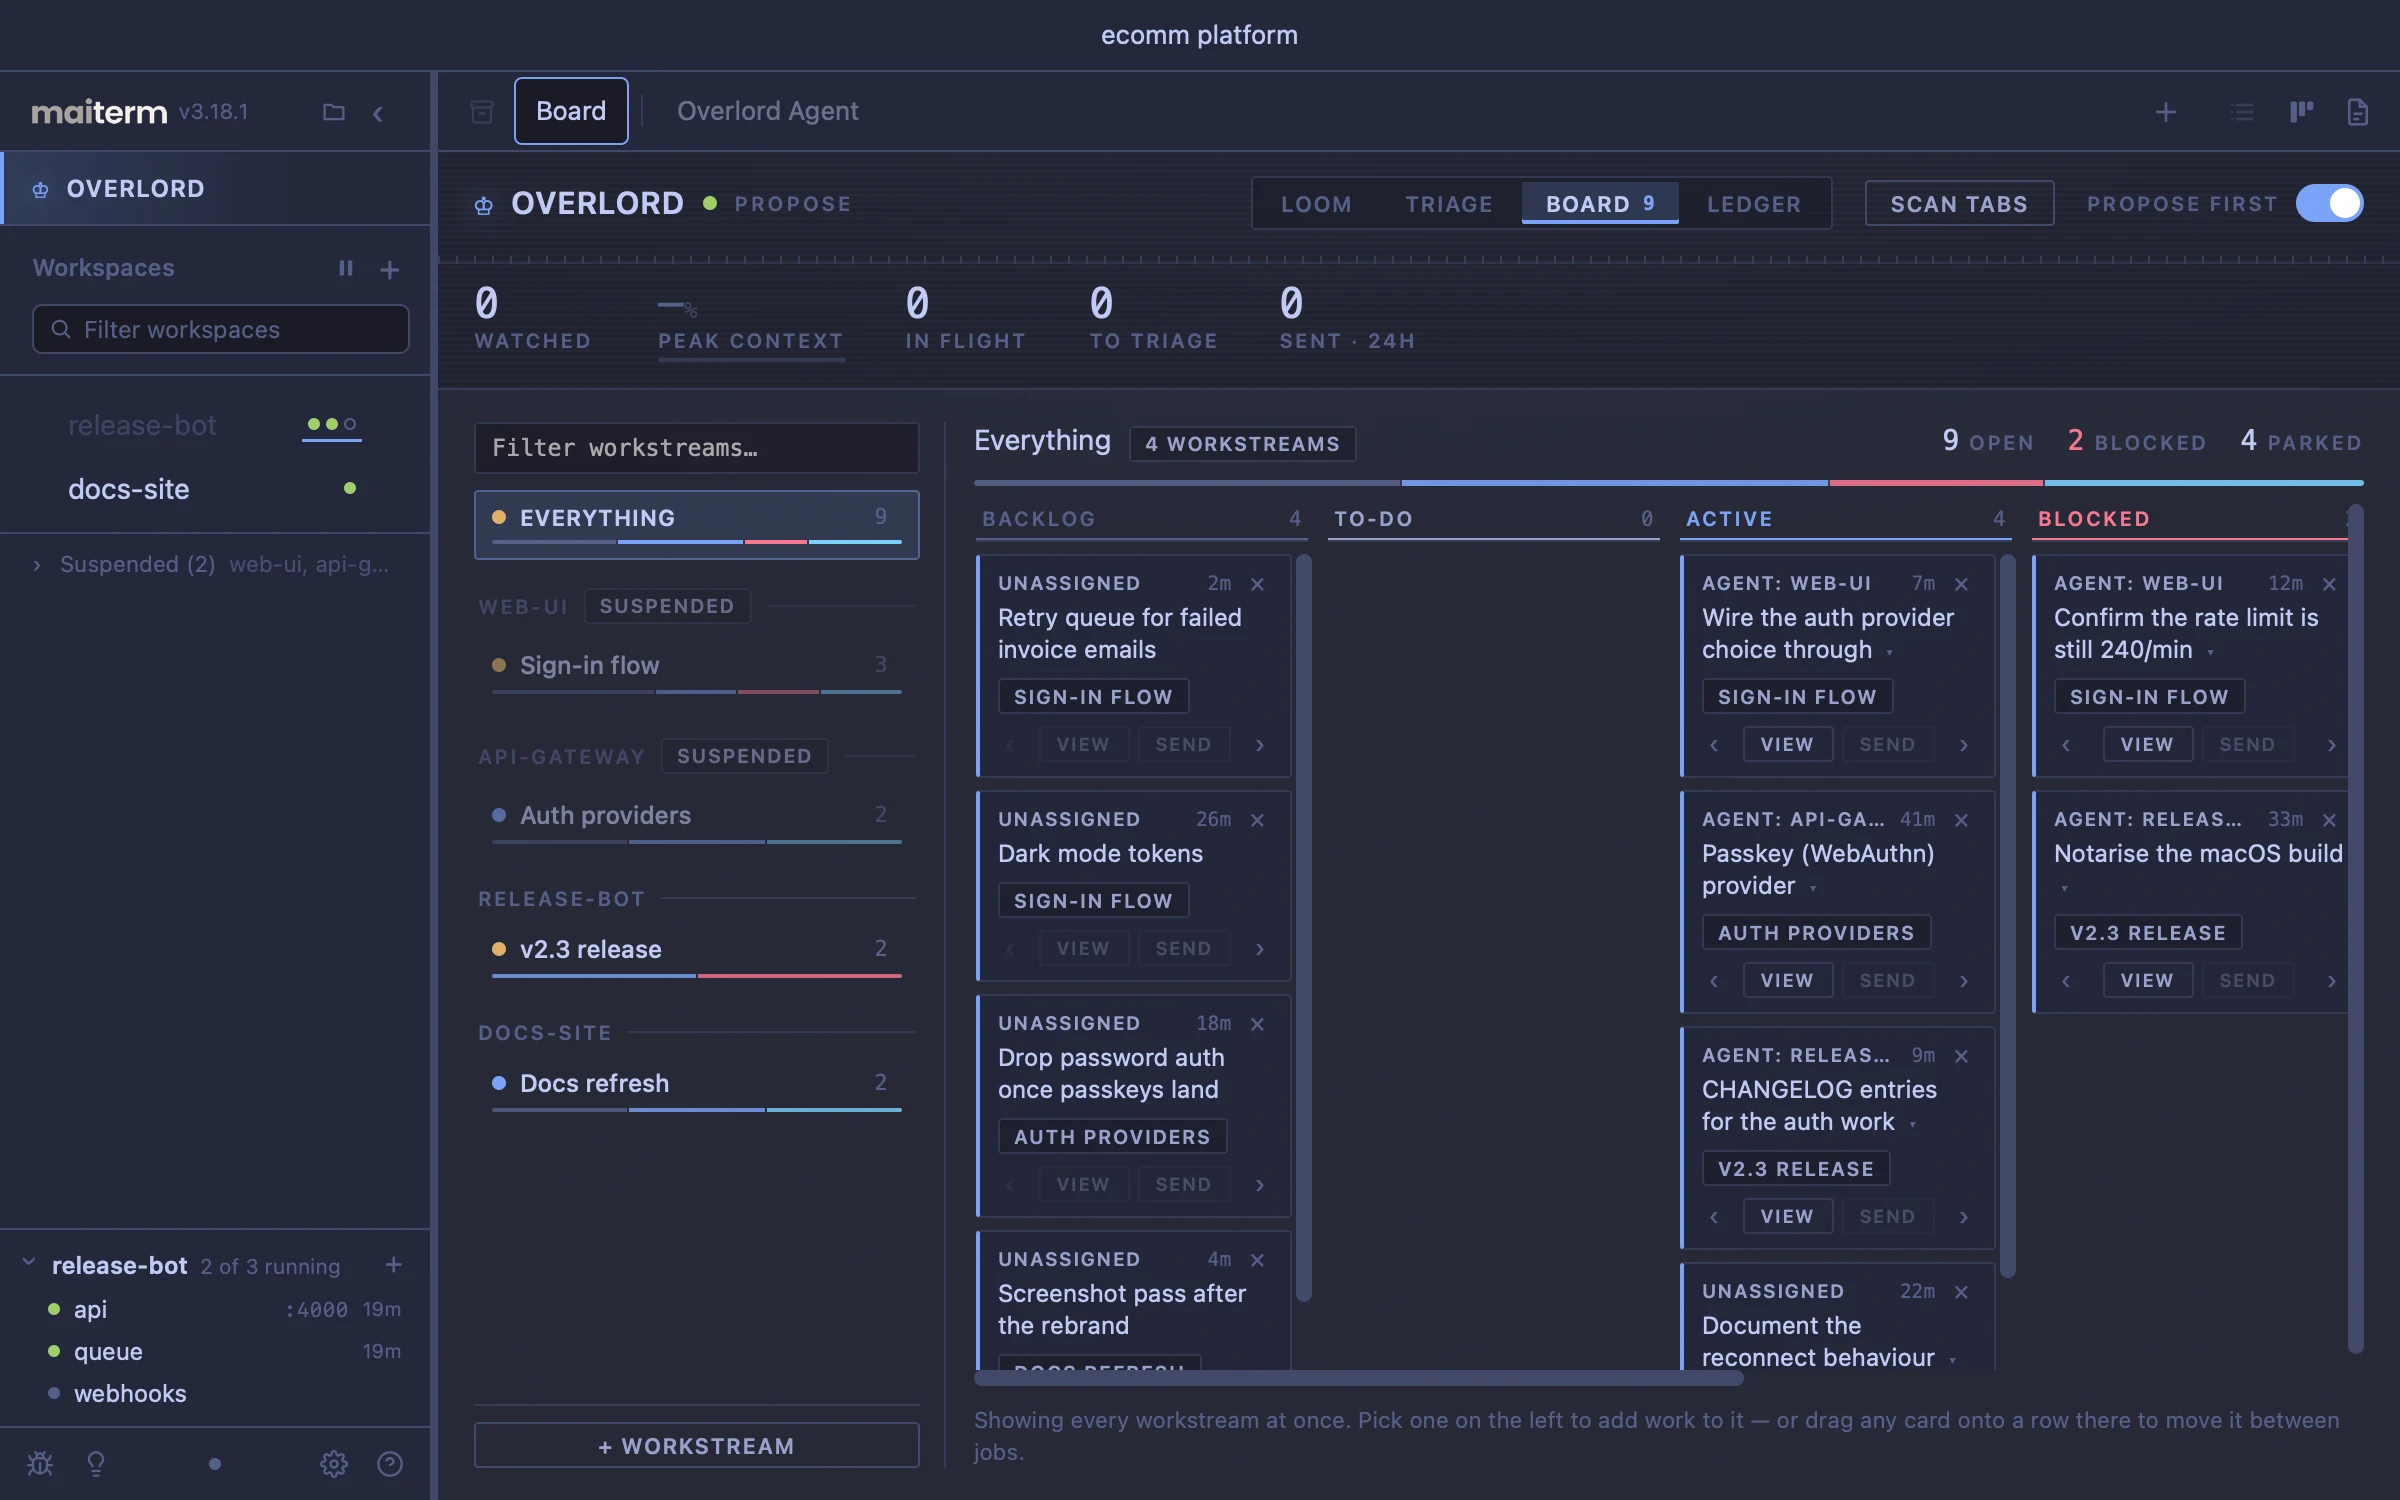
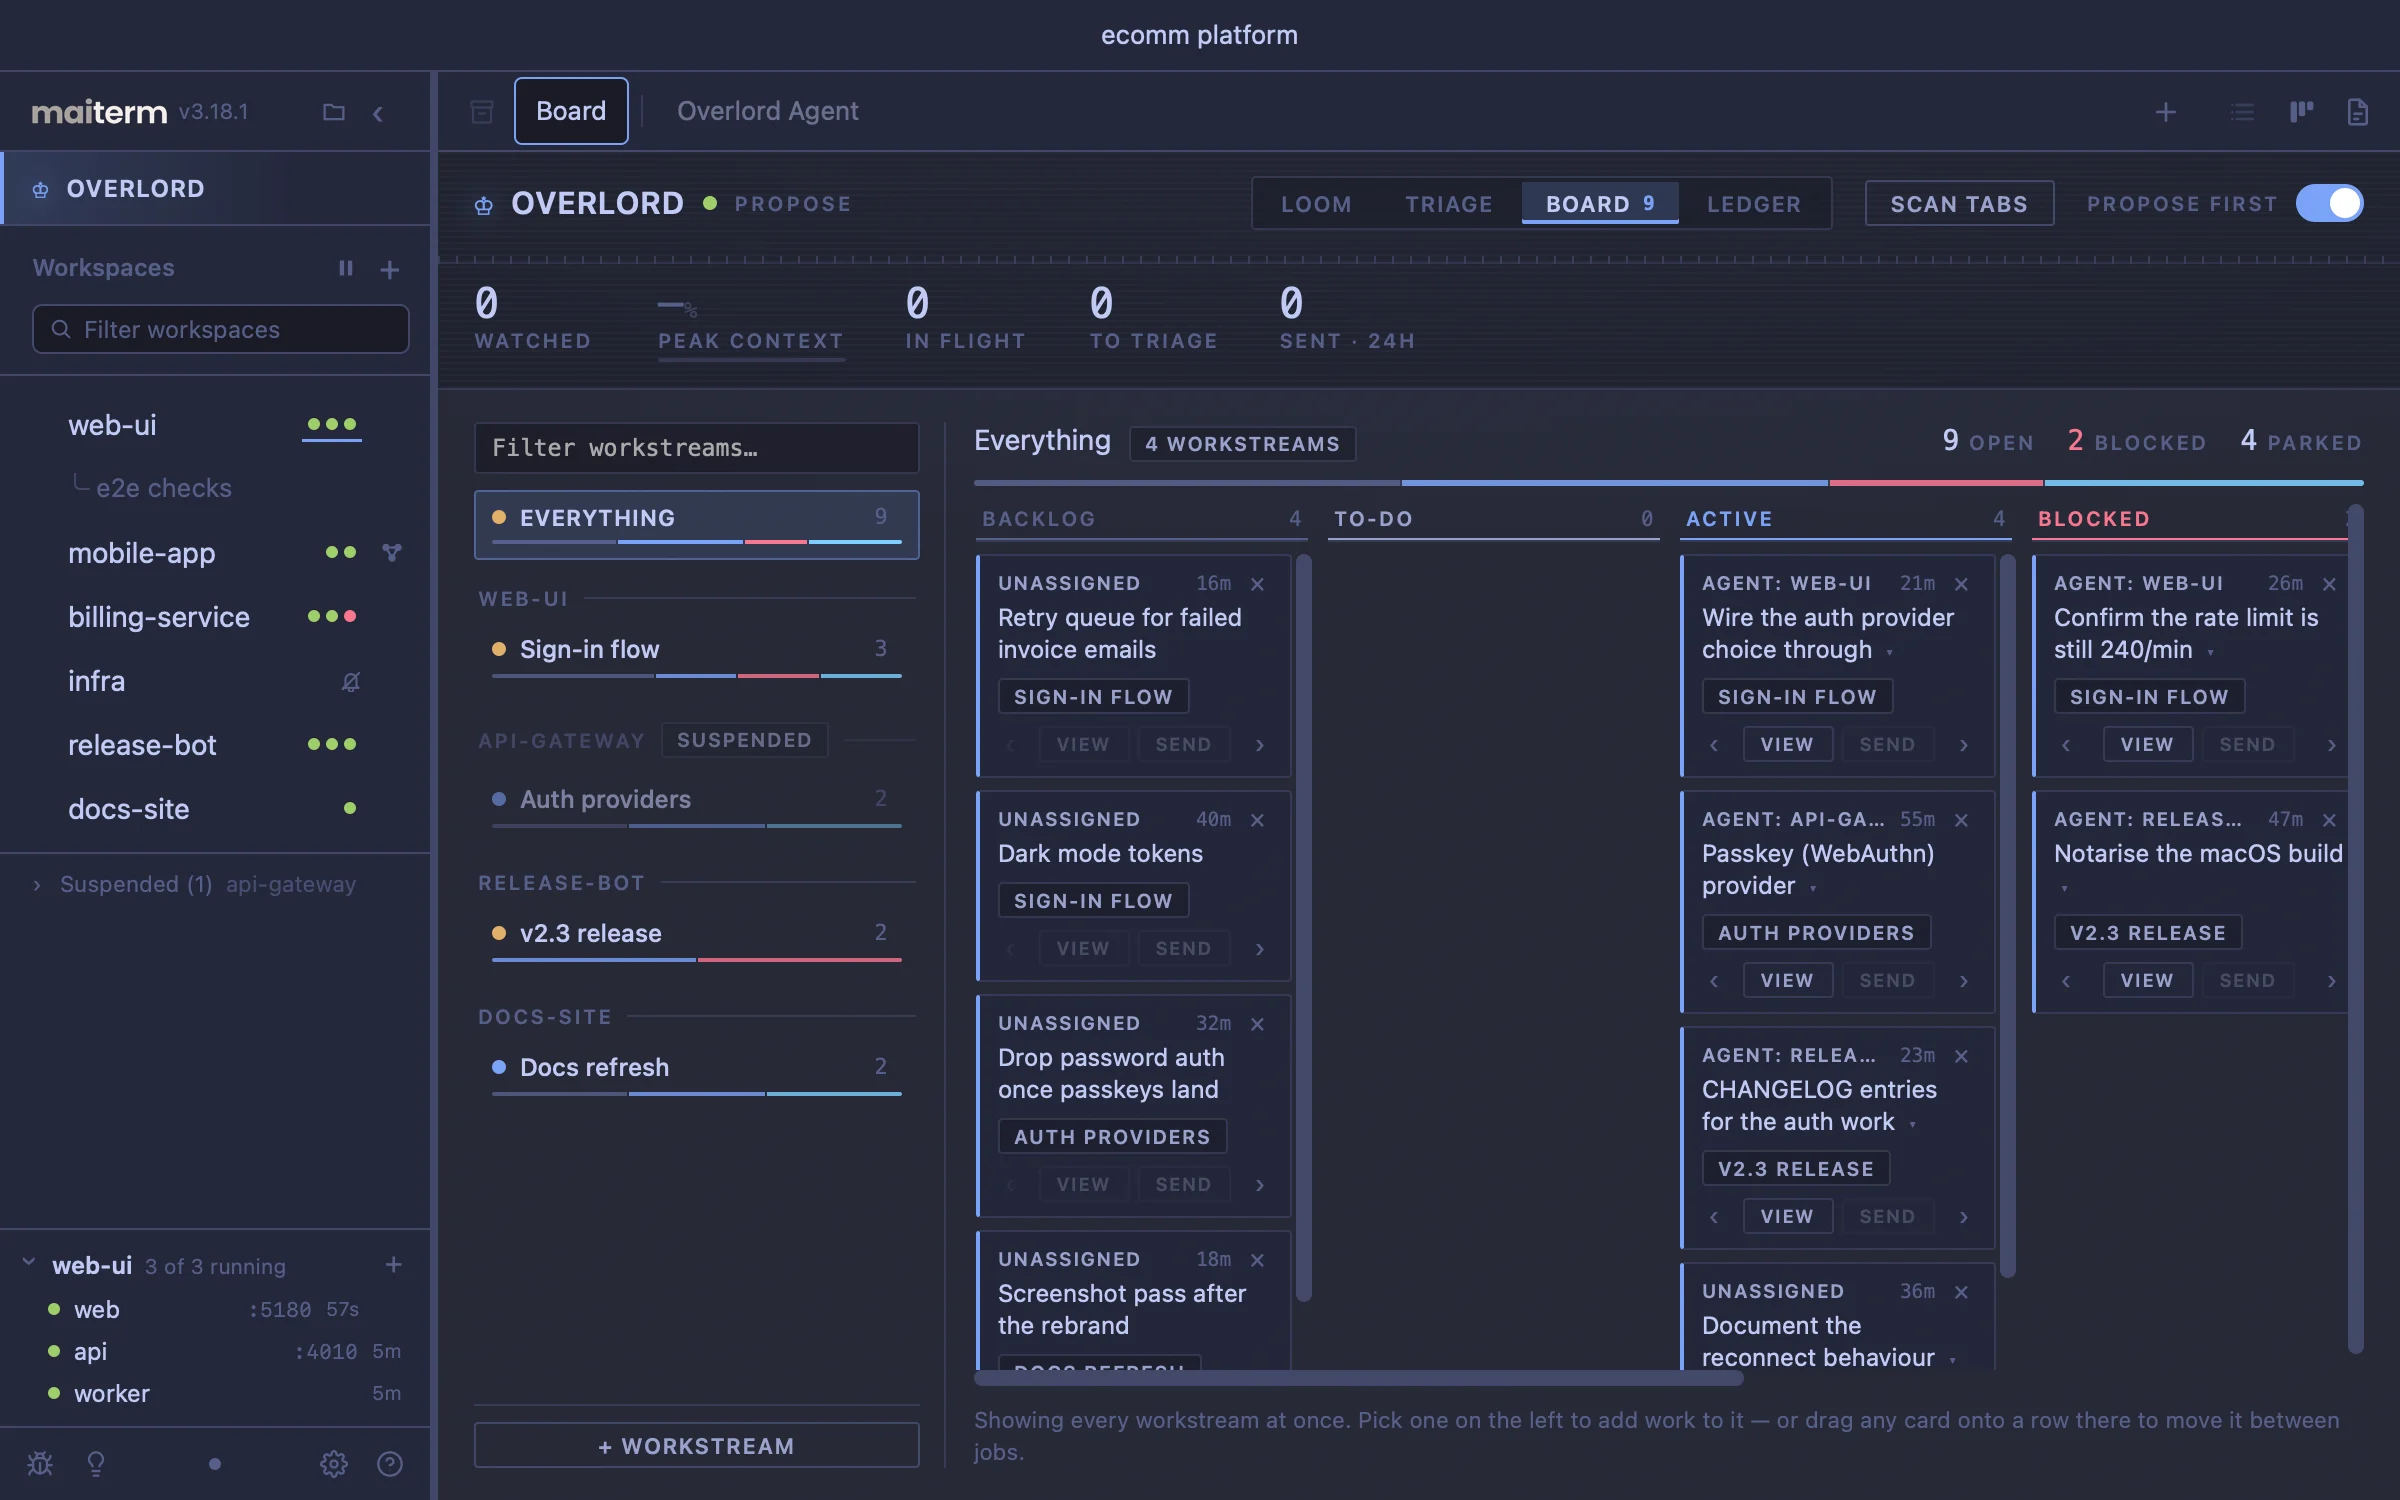
Website and README: screenshots from the current app, and one for Files
Every shot of the main window was from v2.0.0, with the old sidebar. Retaken in the dev demo
window (no real names or paths): workspaces and panes, notes, the editor, the task panel,
the stack panel and console drawer, the Overlord board, and a new one of the Files column on
the home page and the Files page. Alt text now says what each picture shows.

diff --git a/website/src/content/docs/features/stack.md b/website/src/content/docs/features/stack.md
@@ -50,7 +50,7 @@ Right-click a service for **Start** / **Restart**, **Stop**, **Show console**, *
 
 A dev server tells you where it is serving the moment it comes up — `Local: http://localhost:5173/`, `Listening on port 8080`, `Serving HTTP on 0.0.0.0 port 8000`. maiTerm reads that line out of the service's own output and fills in the address, marks it **ready**, and shows it to every agent in the workspace. Nothing sniffs sockets and nothing has to be configured.
 
-![A workspace's Stack section in the sidebar: web-ui on port 5173, api-gateway on 4000, and a worker with no address, each with a status dot and uptime](/screenshots/stack-sidebar.webp)
+![The sidebar: workspace rows each carrying a dot per service — billing-service's red one crashed — and the stack panel at the foot showing web-ui's web on port 5180, api on 4010 and a worker with no address, each with its uptime](/screenshots/stack-sidebar.webp)
 
 The `worker` above is the honest case: it serves nothing and announces nothing, so it stays **running** with no address rather than pretending to have one.
 
@@ -69,7 +69,7 @@ If a service announces itself in some way maiTerm doesn't recognise, put a regul
 
 Click a service and its console opens **over** your work — a drawer along the bottom of the terminal area, not a dock beside it. Click the service again, click the tab behind it, or press `Escape`, and it's gone.
 
-![The console drawer open along the bottom of the terminal area, showing the web-ui service's output over the tab being worked in, with a pill per service and Restart and Stop buttons](/screenshots/stack-console.webp)
+![The console drawer open along the bottom of the terminal area, showing the web service's output — its Local: address — over the tab being worked in, with a pill per service and Restart and Stop buttons](/screenshots/stack-console.webp)
 
 That shape is deliberate. A side dock takes width from the terminal you're working in, and a width change makes an agent re-render its whole transcript into your scrollback. The drawer floats, so the tab underneath never sees a resize — and the service's terminal is never moved between panes either, so showing or hiding a service does nothing whatsoever to the process.
 

diff --git a/website/src/content/docs/features/workspaces.md b/website/src/content/docs/features/workspaces.md
@@ -7,7 +7,7 @@ description: Organize terminals by project with independent pane layouts and con
 
 Group your terminals by project. Each workspace has its own pane layout, tabs, and context. Switch between "ACME Project" and "Production Server" without losing your place in either.
 
-![Workspaces and tabs](/screenshots/workspaces-tabs.png)
+![The web-ui workspace split into two panes: git history in one terminal and a passing test run in the other, with the sidebar listing seven workspaces — one shown under web-ui, a mesh, a muted one, service dots on each — and web-ui's three running services in the stack panel at its foot](/screenshots/workspaces-tabs.webp)
 
 ### Features
 
@@ -92,7 +92,7 @@ Panes are the containers within a workspace. Each pane holds one or more tabs (t
 
 Each tab has its own markdown notes panel. Track TODOs, paste connection strings, jot down what you're debugging — right next to the terminal doing the work.
 
-![Notes panel](/screenshots/notes-panel.png)
+![A terminal with its notes panel open beside it: dev notes in markdown with a checklist, next to curl output from the services the notes describe](/screenshots/notes-panel.webp)
 
 Your coding agent — Claude Code, Codex or Antigravity — shares the same panel. Ask it to write down what it just did, keep a running TODO list, or summarize a debugging session, and it edits the notes directly through MCP tools — no copy-paste. It can read, write, update, organize, merge, and clean up both tab and workspace notes, so your notes stay current while you work.
 

diff --git a/README.md b/README.md
@@ -29,7 +29,7 @@ Other terminals give you tabs and splits. maiTerm gives you a system for managin
 
 Group your terminals by project. Each workspace has its own pane layout, tabs, and context. Switch between "ACME Project" and "Production Server" without losing your place in either.
 
-![Workspaces and tabs](screenshots/workspaces-tabs.png)
+![Workspaces and tabs](screenshots/workspaces-tabs.webp)
 
 ### Bridge two Claude agents together
 
@@ -39,13 +39,13 @@ Run two Claude Code sessions — say one local and one SSH'd into a related serv
 
 Each tab has its own markdown notes panel. Track TODOs, paste connection strings, jot down what you're debugging — right next to the terminal doing the work. Workspace-level notes too. Your Claude Code agent shares the same panel — ask it to write down what it just did, keep a running TODO, or tidy your notes, and it edits them directly via MCP.
 
-![Per-tab notes panel](screenshots/notes-panel.png)
+![Per-tab notes panel](screenshots/notes-panel.webp)
 
 ### Built-in editor, integrated with your terminal
 
 Click any file path in terminal output to open it in an editor tab. Works over SSH too — remote files load transparently via SCP. Syntax highlighting for 50+ languages, image/PDF preview, and Claude Code's diff review all live alongside your terminal tabs.
 
-![Code editor tab](screenshots/editor-tab.png)
+![Code editor tab](screenshots/editor-tab.webp)
 
 ### Deep clone everything
 

diff --git a/website/src/content/docs/features/tasks.md b/website/src/content/docs/features/tasks.md
@@ -91,7 +91,7 @@ Press `Cmd+Shift+E` — or click the lanes icon in the tab bar — to open the t
 
 The panel answers one question — *what am I doing here* — so it shows **this tab's work**, grouped by workstream with a count on each heading. Everything else is a pointer: the header carries collapsed counts for `N unclaimed`, `N parked`, `N done` and `N dropped`, and a closing line says how many tasks are in flight on other tabs.
 
-![The task panel beside a terminal, showing one workstream's rows with review, active and blocked lanes and a count of finished work in the header](/screenshots/tasks-panel.webp)
+![The task panel beside a terminal: the task active now at the top, then the Sign-in flow workstream's review and blocked tasks, each with its one-line note](/screenshots/tasks-panel.webp)
 
 Under each row's status chip is how long ago the task was created, so week-old leftovers stand out from what came up this morning; hover it for the exact time.
 

diff --git a/website/src/content/docs/features/files.md b/website/src/content/docs/features/files.md
@@ -5,6 +5,8 @@ description: A project tree beside your terminals that follows the tab you're in
 
 **Files** is a project tree in its own column, between the workspace sidebar and your terminals. It shows the folder of the tab you're in, and it shows what your agents are doing in it: a file lights up as an agent reads it, and the files an agent changed carry a mark in that agent's colour, so you can see what a turn touched without scrolling back through its transcript.
 
+![The Files column between the sidebar and an editor tab: the web-ui repository on branch main, the src folder open with session.ts — the file in front — marked, and the All, Changed, Turn and Session filters above](/screenshots/files-column.webp)
+
 ## Opening it
 
 Press `Cmd+Shift+B` (`Ctrl+Shift+B` on Windows and Linux), or click the folder button at the top of the sidebar, beside the collapse chevron. While the sidebar is collapsed, the same button sits in the titlebar.

diff --git a/website/src/content/docs/features/editor.md b/website/src/content/docs/features/editor.md
@@ -5,7 +5,7 @@ description: Built-in CodeMirror 6 editor with click-to-open, remote file suppor
 
 maiTerm includes a full-featured code editor built on CodeMirror 6, living alongside your terminal tabs.
 
-![Editor tab](/screenshots/editor-tab.png)
+![An editor tab showing session.ts with syntax highlighting and folding, in a tab strip beside the terminal tabs](/screenshots/editor-tab.webp)
 
 ## Features
 
